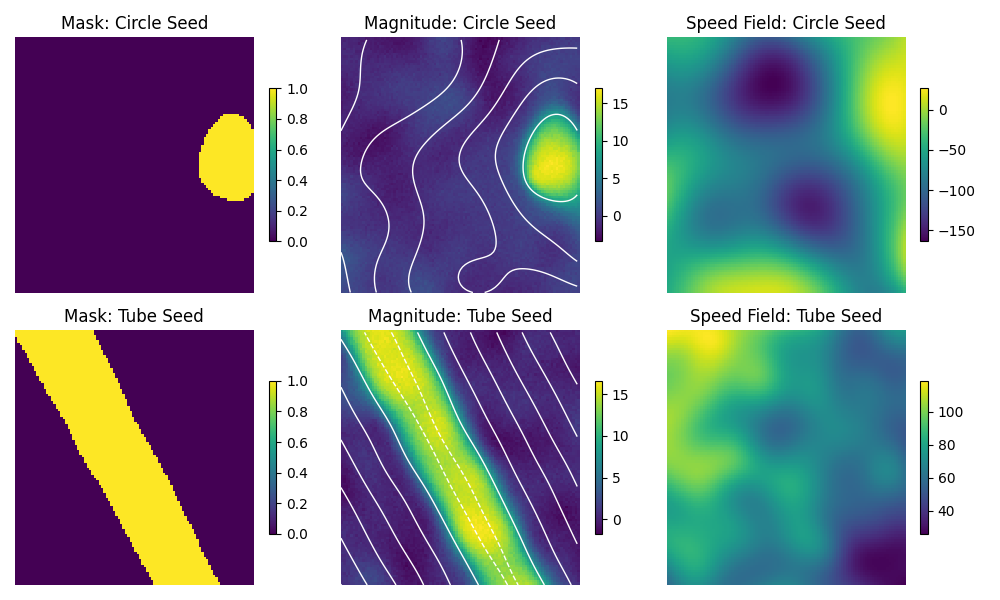
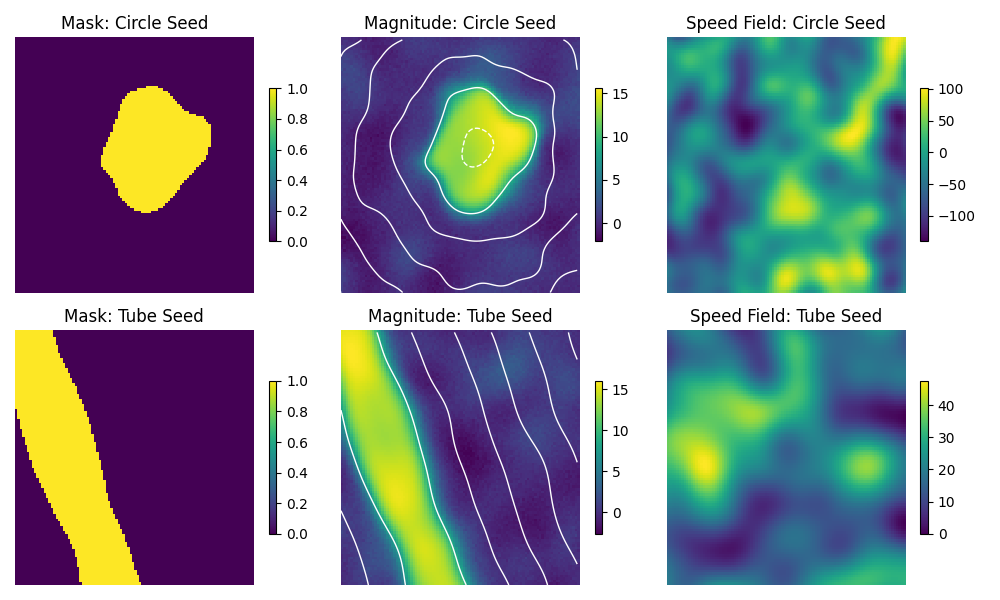
masked noise to prevent overlaying noise on top of target vessel in artificial magn scan

diff --git a/utils/data_gen_util.py b/utils/data_gen_util.py
@@ -337,18 +337,19 @@ class SDF_MRI(Level_Set_SDF):
         z = rand_gen.standard_normal((nx, ny))
         samples = Lx @ z @ Ly.T
         return samples
-    
-    def add_noise(self, arr : np.ndarray[float], noise_level : float = 1.):
+
+    def add_noise(self, arr : np.ndarray[float], mask : np.ndarray[float], noise_level : float = 1.):
         '''
         Add fine Gaussian noise and smooth noise (sampled Gaussian Process) to the SDF.
         Args:
             arr (np.ndarray): The input array to add noise to.
+            mask (np.ndarray): The mask array to prevent adding coherent noise to certain regions.
             noise_level (float): The level of noise to add (order-of-magnitude).
         '''
         white_noise = np.random.normal(0, noise_level/5, arr.shape)
         # Generate smooth noise using Gaussian Process
         smooth_noise = self.gaussian_process(grid_shape = arr.shape, length_scale = self.N / 1000, variance = noise_level)
-        arr += white_noise + smooth_noise
+        arr += (1 - mask) * white_noise + smooth_noise
         return
 
     def return_mask_magn_pair(self) -> tuple[np.ndarray[float], np.ndarray[float]]:
@@ -359,7 +360,7 @@ class SDF_MRI(Level_Set_SDF):
         '''
         mask = np.where(self.sdf.copy() < 0, 1, 0)
         magn = self.activation(self.sdf.copy(), mean_epsilon = 0.15 * self.N) * 15 # Magnitude ~ 15
-        self.add_noise(magn, noise_level = 1)  # Add noise to the magnitude ~ 1
+        self.add_noise(magn, mask, noise_level = 1)  # Add noise to the magnitude ~ 1
         return mask, magn
 
 class SDF_MRI_Circle(SDF_MRI):

diff --git a/tools_and_tests/data_gen_test.py b/tools_and_tests/data_gen_test.py
@@ -8,10 +8,10 @@ since = time.time()
 Vc = Random_Speed_Field(shape=(100, 100))
 Vt = Random_Speed_Field(shape=(100, 100))
 Vc.sinusoidal(freq_range=(0.01, 0.03), amp_range=(15, 30), num_modes=2)
-Vc.random_coherent(log_length_scale_mean=-2.3, log_length_scale_variance=0.5, variance=40)
-Vc.random_coherent(log_length_scale_mean=0, log_length_scale_variance=1, variance=30)
-Vt.random_coherent(log_length_scale_mean=-2, log_length_scale_variance=0.5, variance=10)
-Vt.random_coherent(log_length_scale_mean=0, log_length_scale_variance=1, variance=40)
+Vc.random_coherent(log_length_scale_mean=-2.3, log_length_scale_variance=0.5, amplitude_variance=40)
+Vc.random_coherent(log_length_scale_mean=0, log_length_scale_variance=1, amplitude_variance=30)
+Vt.random_coherent(log_length_scale_mean=-2, log_length_scale_variance=0.5, amplitude_variance=10)
+Vt.random_coherent(log_length_scale_mean=0, log_length_scale_variance=1, amplitude_variance=40)
 
 sdf_mri_circ = SDF_MRI_Circle(Vc, r = 22.)
 sdf_mri_tube = SDF_MRI_Tube(Vt, r = 10.)
